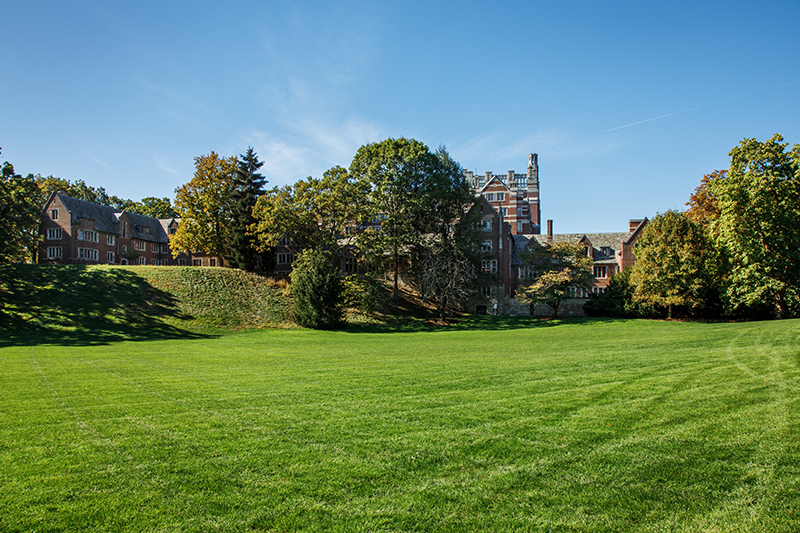
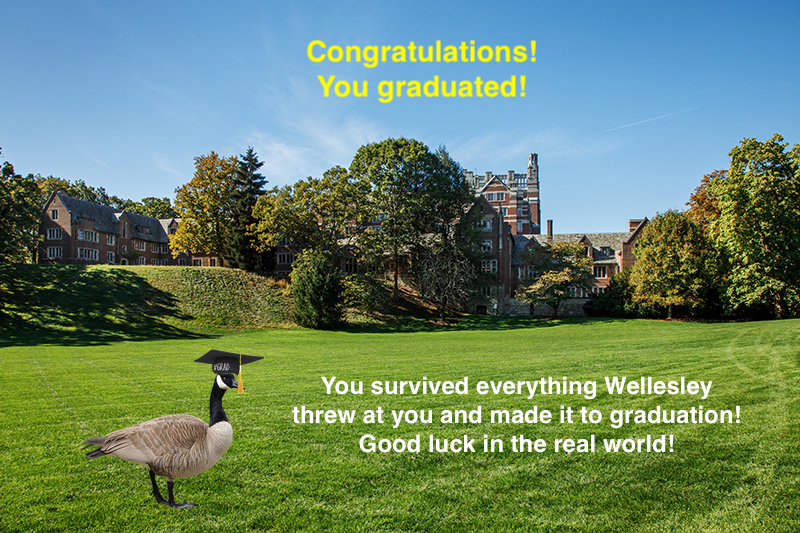
graduation panel and situations

Changed region(s): [[0.3438, 0.6904, 0.9375, 0.8705], [0.375, 0.06, 0.6875, 0.2101], [0.0938, 0.6604, 0.3438, 0.9606]]

diff --git a/GraduationPanel.java b/GraduationPanel.java
@@ -19,48 +19,28 @@ public class GraduationPanel extends JPanel
     public GraduationPanel()
     {
        JPanel background = new JPanel();
-       
-       JTextArea message1 = new JTextArea ("Congratulations, you made it to graduation!");                   
-       JTextArea message2 = new JTextArea("You succesfully passed all your classes while balacing friends");
-       JTextArea message3 = new JTextArea ("orgs, and all the terrors Wellesley has to offer.");
-       JTextArea message4 = new JTextArea("Here is your diploma and good luck dealing with the real world!");
-                                    
-       message1.setBackground(new Color(0,0,0,0));
-       message2.setBackground(new Color(0,0,0,0));
-       message3.setBackground(new Color(0,0,0,0));
-       message4.setBackground(new Color(0,0,0,0));
-       
+       background.setLayout(new BorderLayout());
        Font font = new Font("Verdana", Font.BOLD, 20);
-       message1.setFont(font);
-       message2.setFont(font);
-       message3.setFont(font);
-       message4.setFont(font);
        
-       
-       add(message1);
-       add(message2);
-       add(message3);
-       add(message4);
-       
-       
+       JPanel deck = new JPanel(new CardLayout());//container for the panels, switches between them like playingcards
+       CardLayout cl = (CardLayout)(deck.getLayout());//manages the deck
+        
+       background.setLayout(new BorderLayout());
+       background.setOpaque(true);
+
+       //adding sev green photo to background
        try {
             //scaling all input files to be the same size
             ImageIcon image = new ImageIcon(ImageIO.read(new File("sevGreen.jpg")));
             Image pic = image.getImage(); // transform it 
-            Image newimg = pic.getScaledInstance(1200, 800,  java.awt.Image.SCALE_SMOOTH); // scale it the smooth way  
+            Image newimg = pic.getScaledInstance(1200, 770,  java.awt.Image.SCALE_SMOOTH); // scale it the smooth way  
             image = new ImageIcon(newimg);  // transform it back
 
-            background.add(new JLabel(image));
-        } catch (IOException e) {
-            e.printStackTrace();
-        }
-       try{
-            BufferedImage diploma = ImageIO.read(new File("diploma.png"));
-            JLabel picLabel = new JLabel(new ImageIcon(diploma));
-            add(picLabel);
-        }   catch(IOException e){
-            System.out.println("Image not found in directory.");
-        }
-       
+            background.add(new JLabel(image), BorderLayout.CENTER);
+       }catch (IOException e) {
+           e.printStackTrace();
+       }
+       deck.add(background, "screen");
+       add(deck, BorderLayout.CENTER);
     }
 }
